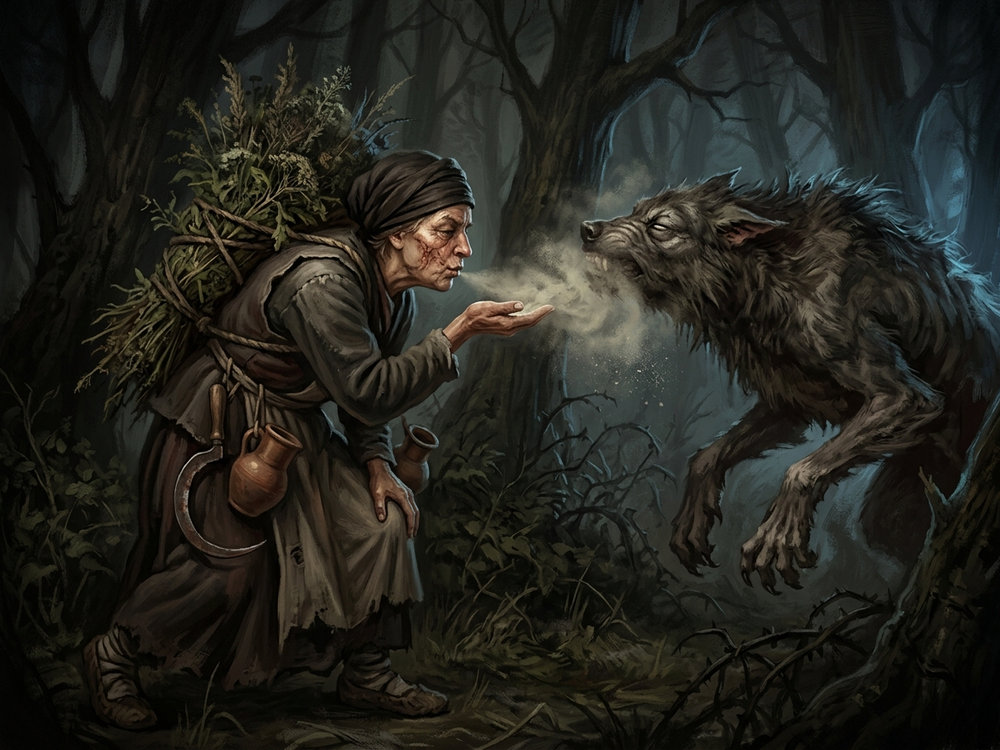
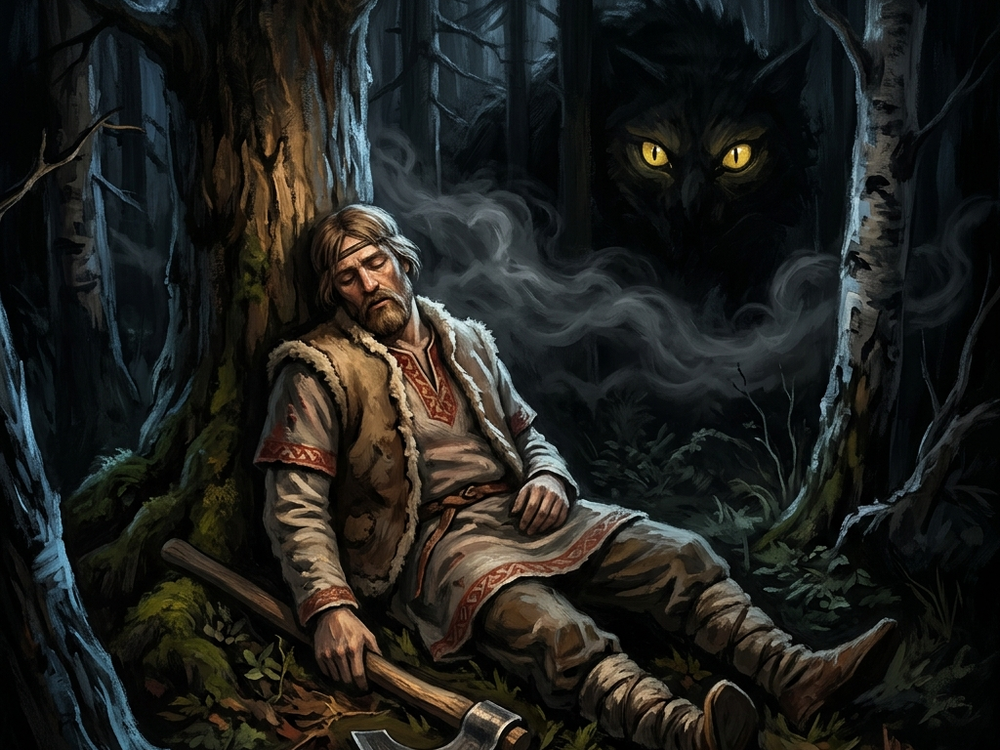
Heavy Eyelids has a picture of its own: a warrior falling asleep under Kot Bayun's eyes (it wore the healer's)

diff --git a/docs/prompts/03_cards.md b/docs/prompts/03_cards.md
@@ -98,3 +98,14 @@ Gemini эти файлы не получает: поле своё, после р
 `assets/bg/at_<враг>-gemini.png`, место выбирает первый враг встречи.
 Скачивать только через редактор картинки (значок загрузки → 1K, стрелка вправо — следующая);
 сохранять файлы скриптом со страницы нельзя — Chrome после этого блокирует все загрузки вкладки.
+
+### heavy_eyelids (Kot Bayun's status card), repainted 2026-11-15
+
+It had another card's picture (the healer blowing on a wolf). Asked in the Flow prompt box, cut
+to 4:3 and saved at 1000×750:
+
+> Card illustration for a dark Slavic folk-horror card game, landscape 4:3, one single image: a
+> weary peasant warrior in a dim forest at night, his eyelids drooping shut against his will, head
+> sagging, hand slipping from his axe, while out of the dark behind him two huge glowing yellow cat
+> eyes watch and a faint drifting purr-like haze of grey sleep curls around his head like heavy
+> smoke. (+ the style paragraph above)
